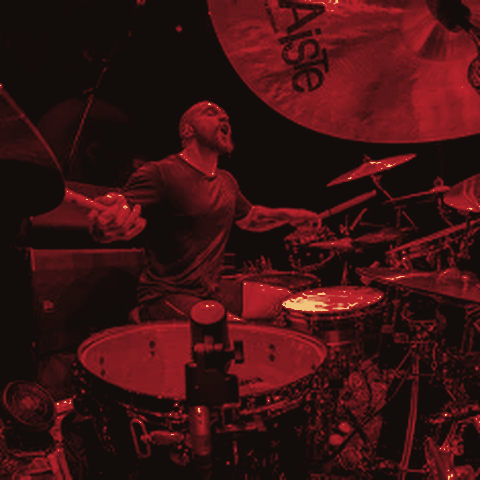
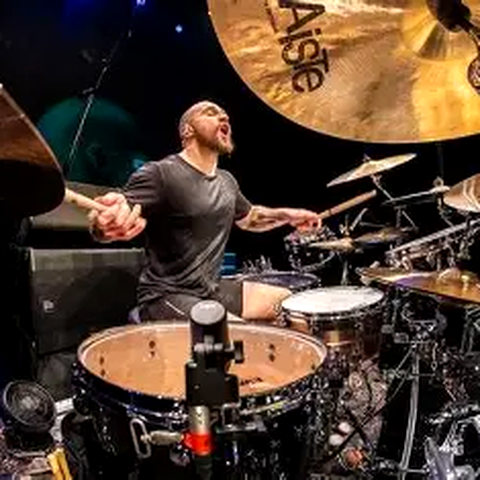
playtest12 foto nítida + marco por estilo

diff --git a/game.js b/game.js
@@ -173,26 +173,20 @@ function claveAvatarInstrumento(instrumento) {
   return "cantante";
 }
 
-function urlSiluetaInstrumento(instrumento) {
-  return "assets/avatares/silueta-" + claveAvatarInstrumento(instrumento) + ".png";
-}
-
 function urlAvatarInstrumento(instrumento) {
-  return urlSiluetaInstrumento(instrumento);
+  return "assets/avatares/avatar-" + claveAvatarInstrumento(instrumento) + ".png";
 }
 
 function htmlImgAvatar(instrumento, alt) {
-  const src = urlSiluetaInstrumento(instrumento);
+  const src = urlAvatarInstrumento(instrumento);
   const a = (alt || instrumento || "Avatar").replace(/"/g, "&quot;");
   return (
-    '<div class="carta-retrato carta-silueta" style="background:var(--avatar-bg)">' +
-    '<div class="silueta-figura" role="img" aria-label="' +
+    '<div class="carta-retrato carta-foto" style="background:var(--avatar-bg);border-color:var(--avatar-fg)">' +
+    '<img src="' +
+    src +
+    '" alt="' +
     a +
-    '" style="-webkit-mask-image:url(' +
-    src +
-    ");mask-image:url(" +
-    src +
-    ');mask-size:cover;mask-position:center;background:var(--avatar-fg)"></div></div>'
+    '"></div>'
   );
 }
 

diff --git a/style.css b/style.css
@@ -1272,22 +1272,20 @@ body::before {
   image-rendering: -webkit-optimize-contrast;
 }
 
-.carta-retrato.carta-silueta {
+.carta-retrato.carta-foto {
   background: var(--avatar-bg);
-  padding: 0;
+  border: 3px solid var(--avatar-fg);
+  padding: 3px;
+  box-shadow: inset 0 0 0 1px color-mix(in srgb, var(--avatar-fg) 55%, transparent);
 }
 
-.carta-silueta .silueta-figura {
+.carta-foto img {
   width: 100%;
   height: 100%;
   display: block;
-  background: var(--avatar-fg);
-  -webkit-mask-repeat: no-repeat;
-  mask-repeat: no-repeat;
-  -webkit-mask-size: cover;
-  mask-size: cover;
-  -webkit-mask-position: center;
-  mask-position: center;
+  object-fit: cover;
+  object-position: center;
+  border-radius: 10px;
 }
 
 .carta-cuerpo {

diff --git a/index.html b/index.html
@@ -4,7 +4,7 @@
   <meta charset="UTF-8">
   <meta name="viewport" content="width=device-width, initial-scale=1.0">
   <title>El Musiko</title>
-  <link rel="stylesheet" href="style.css?v=musiko-playtest11">
+  <link rel="stylesheet" href="style.css?v=musiko-playtest12">
 </head>
 <body>
   <div class="app">
@@ -71,6 +71,6 @@
     </div>
     </div>
   </div>
-  <script src="game.js?v=musiko-playtest11"></script>
+  <script src="game.js?v=musiko-playtest12"></script>
 </body>
 </html>
